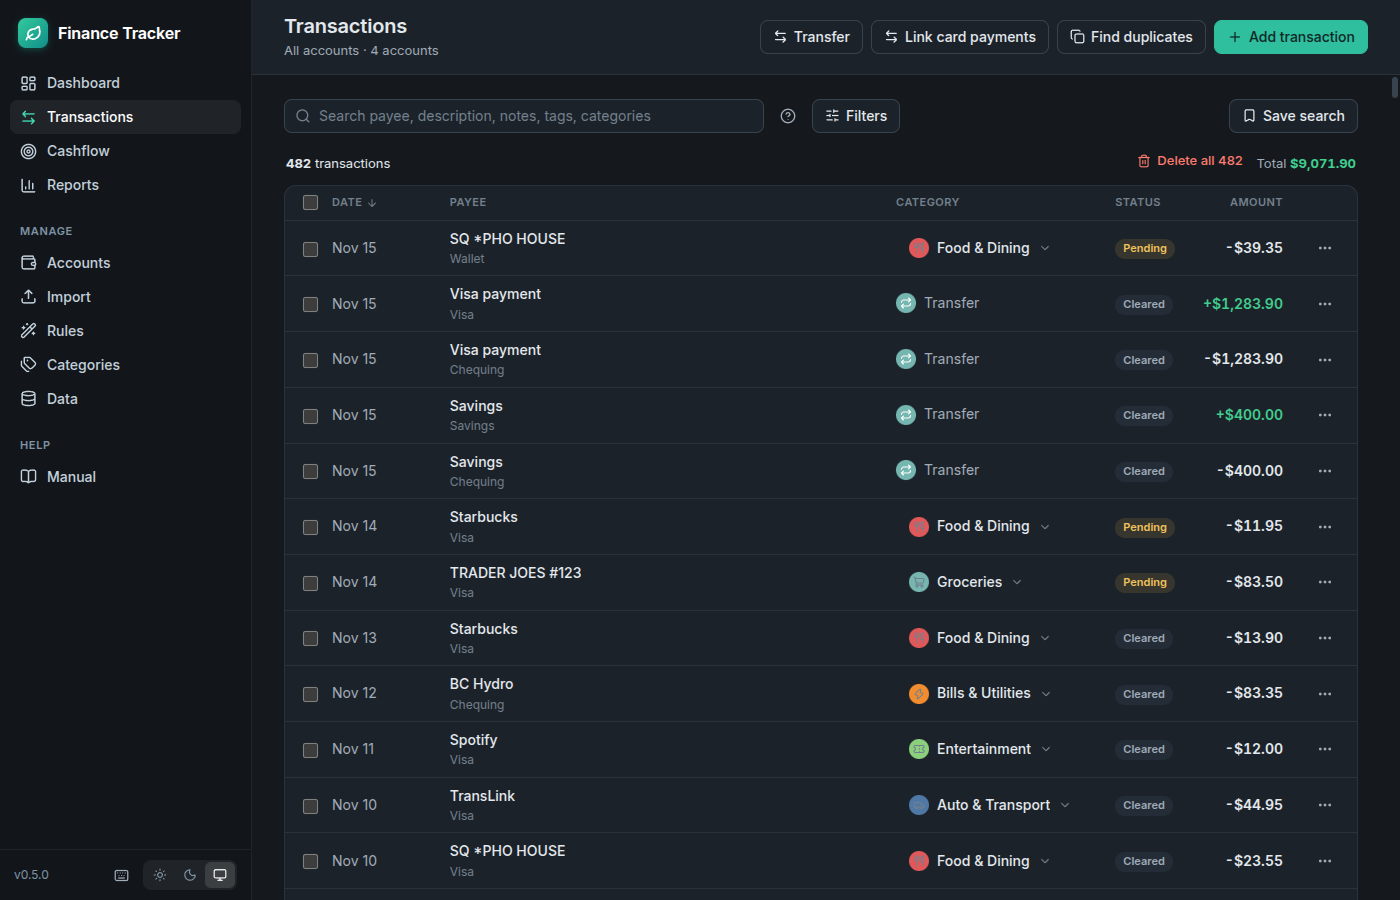
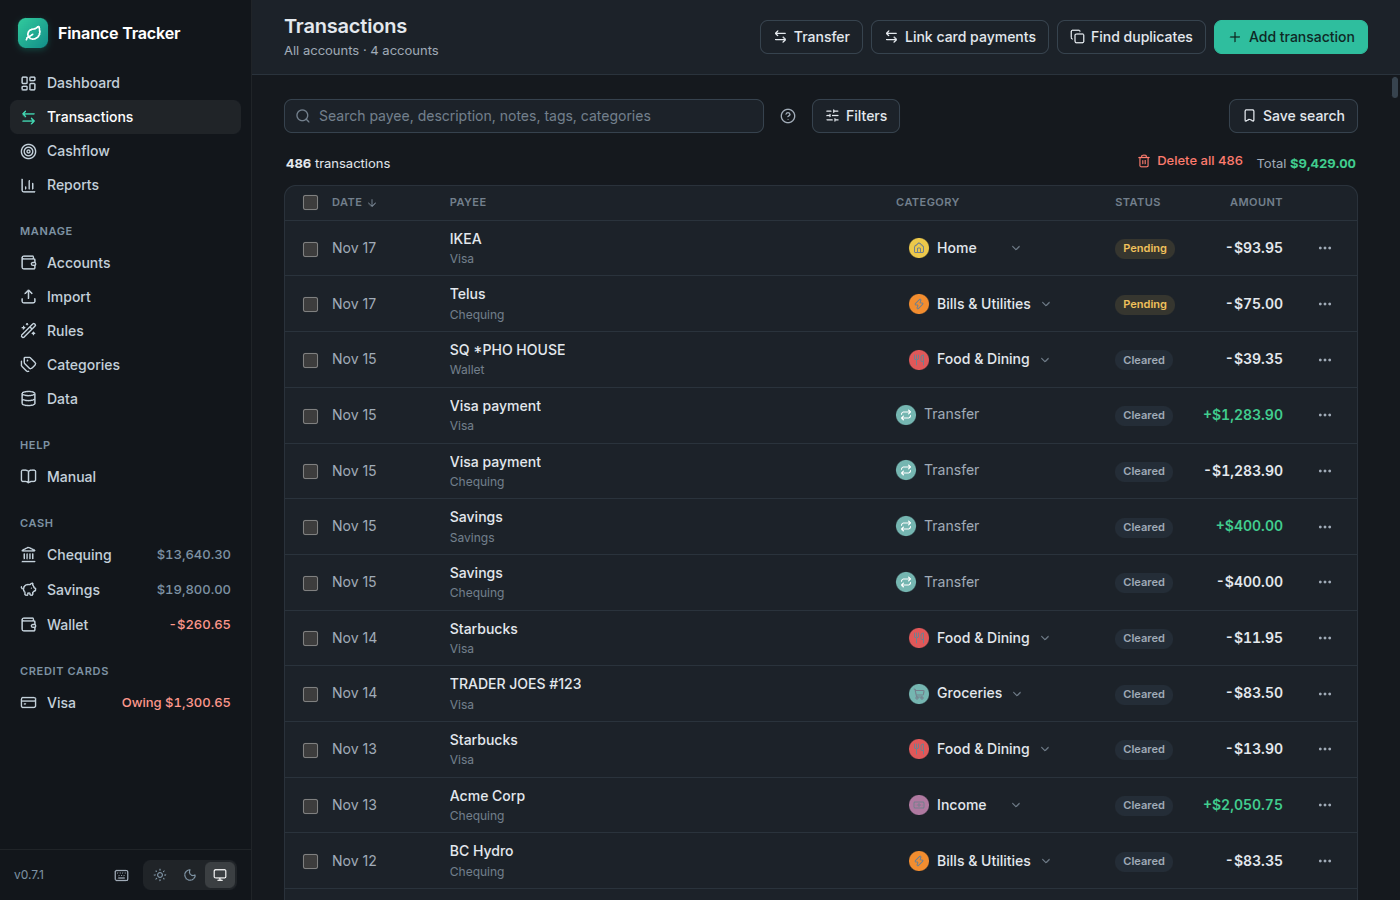
feat: restore account list to the sidebar, release 0.7.1 (#51)
Grouped active accounts with balances under the main tabs; clicking one
opens its transactions. Net worth and Add account stay on the Accounts
page. README screenshots regenerated.

Claude-Session: https://claude.ai/code/session_015k7HiCYjsLmvg5PVpiGV9m

diff --git a/src/renderer/src/App.tsx b/src/renderer/src/App.tsx
@@ -26,7 +26,13 @@ import type { Api } from '../../preload'
 import { AccountEditor } from './AccountEditor'
 import { AccountForm } from './AccountForm'
 import type { AccountWithBalance } from '../../core/ledger/accounts'
-import { accountTypeLabel, balanceText, isLiability } from './accountTypes'
+import {
+  ACCOUNT_GROUPS,
+  ACCOUNT_ICONS,
+  accountTypeLabel,
+  balanceText,
+  isLiability,
+} from './accountTypes'
 import { CategoriesEditor } from './CategoriesEditor'
 import { CategoryStyleProvider } from './CategoryBadge'
 import { CategoryAliasProvider } from './CategorySelect'
@@ -299,6 +305,39 @@ function Shell() {
                       </div>
                     </div>
                   ))}
+                </nav>
+                <nav aria-label="Accounts">
+                  {ACCOUNT_GROUPS.map((g) => {
+                    const list = ledger.accounts.filter((a) => g.types.includes(a.type))
+                    if (list.length === 0) return null
+                    return (
+                      <div key={g.label} className="nav-group">
+                        <div className="nav-heading">{g.label}</div>
+                        <ul>
+                          {list.map((a) => {
+                            const Icon = ACCOUNT_ICONS[a.type]
+                            return (
+                              <li key={a.id}>
+                                <button
+                                  type="button"
+                                  className="nav-item"
+                                  title={a.name}
+                                  aria-current={view === 'ledger' && accountId === a.id}
+                                  onClick={() => pickAccount(a.id, true)}
+                                >
+                                  <Icon size={17} aria-hidden="true" />
+                                  <span className="grow">{a.name}</span>
+                                  <span className={`amount${a.balance < 0 ? ' neg' : ''}`}>
+                                    {balanceText(a.type, a.balance)}
+                                  </span>
+                                </button>
+                              </li>
+                            )
+                          })}
+                        </ul>
+                      </div>
+                    )
+                  })}
                 </nav>
               </div>
               <footer className="sidebar-footer">

diff --git a/CLAUDE.md b/CLAUDE.md
@@ -16,7 +16,7 @@ See `docs/design/00_project_brief.md`.
 
 ## Project status
 
-Milestones 1 (skeleton) and 2 (ledger: schema, core queries, IPC, transaction list, transfers, splits) are built. Milestone 3 (import) is built: CSV, OFX/QFX and Mint CSV, mapping profiles, duplicate detection, undo, history, and bank presets for RBC, TD and Tangerine, verified against real export headers and date formats (see `docs/design/04_import.md`). Milestone 4 (rules) is built in core, IPC and a basic editor (see `docs/design/05_rules.md`). Milestone 5 (search) is built: filters, saved searches and bulk actions (see `docs/design/06_search.md`). Milestone 6 (reports and dashboard) is built: category, income vs expenses, trend, payee and biggest-transaction reports, a dashboard home screen and category drill-down (see `docs/design/07_reports.md`). Milestone 7 (data safety) is built: database export and restore, transactions CSV export and automatic backups (see `docs/design/08_data_safety.md`). OFX/QFX and Mint import were clicked through headless (`import-formats.mjs`). Milestone 8 (packaging) is built: unsigned installers via electron-builder and a tag-triggered release workflow (see `docs/design/09_packaging.md`, ADR 0004). v0.1.0 is released (Linux AppImage, Windows exe, macOS arm64 dmg on the GitHub release page). After the MVP review: a Categories tab (add, rename, delete with reassign), a customizable dashboard, and account edit, archive and delete from the sidebar. After the design review (`docs/design/11_review_feedback.md`): duplicate hardening, flat categories with merge, category colours and icons, and per-category search totals are built. Also built: a rule prompt when a category is changed in the list, the watched import folder, default linking of card payments at import, category aliases (migration 10) and the hide-from-budgets flag (migration 11). budgets v1 (monthly standing amount per category, see `docs/design/12_budgets.md`, migration 12) with a dashboard widget. Look and feel (`docs/design/13_look_and_feel.md`, ADR 0005) is built: design tokens, light and dark themes, sidebar shell, dialogs and a layout pass on every screen; no `window.alert`/`window.confirm` remain. An in-app Manual (`docs/design/14_manual.md`) is built; keep `manualContent.ts` in step with user-visible changes. Spreadsheet (.xlsx) import is built (ADR 0006). After the feedback batch (handoff 2026-11-14_feedback-batch): category kind dropped (ADR 0007), card payment linking, searchable category picker, notes, rule toast, import column guessing with preview, and Find duplicates. After the second feedback round (handoff 2026-11-14_session-accounts-and-duplicates): bulk duplicate cleanup with cross-account matching, an Accounts tab (design note 15), a navigation-only sidebar and an Account filter on Transactions. After the third feedback round (handoff 2026-11-14_session-feedback-round-3): dashboard drill-downs, import category guess and skip-on-import rules. After the follow-up (handoff 2026-11-14_session-review-queue-fuzzy-rules): import rule offer, fuzzy `similar` rule operator and a review queue for uncategorized rows. After persona testing (handoff 2026-11-14_session-usability-pass): decimal-comma fix, layout and narrow-window fixes, first-run guidance, explicit import account, predictable search, keyboard shortcuts, skip-aware import summary, similar-spelling history guess, and design notes 16 and 17. v0.5.0 is released (handoff 2026-11-14_session-release-0.5.0). After the fourth feedback round (handoff 2026-11-14_session-feedback-round-4): load all transactions, edit transaction, hidden-from-budgets leaves reports, net refunds and sorting on budgets, a spending donut, and Budgets renamed Cashflow. v0.6.0 is released. v0.7.0 adds set balance on a date and a Back button. Next: build those two notes' first slices, then budget rollover (needs a decision, see design note 12).
+Milestones 1 (skeleton) and 2 (ledger: schema, core queries, IPC, transaction list, transfers, splits) are built. Milestone 3 (import) is built: CSV, OFX/QFX and Mint CSV, mapping profiles, duplicate detection, undo, history, and bank presets for RBC, TD and Tangerine, verified against real export headers and date formats (see `docs/design/04_import.md`). Milestone 4 (rules) is built in core, IPC and a basic editor (see `docs/design/05_rules.md`). Milestone 5 (search) is built: filters, saved searches and bulk actions (see `docs/design/06_search.md`). Milestone 6 (reports and dashboard) is built: category, income vs expenses, trend, payee and biggest-transaction reports, a dashboard home screen and category drill-down (see `docs/design/07_reports.md`). Milestone 7 (data safety) is built: database export and restore, transactions CSV export and automatic backups (see `docs/design/08_data_safety.md`). OFX/QFX and Mint import were clicked through headless (`import-formats.mjs`). Milestone 8 (packaging) is built: unsigned installers via electron-builder and a tag-triggered release workflow (see `docs/design/09_packaging.md`, ADR 0004). v0.1.0 is released (Linux AppImage, Windows exe, macOS arm64 dmg on the GitHub release page). After the MVP review: a Categories tab (add, rename, delete with reassign), a customizable dashboard, and account edit, archive and delete from the sidebar. After the design review (`docs/design/11_review_feedback.md`): duplicate hardening, flat categories with merge, category colours and icons, and per-category search totals are built. Also built: a rule prompt when a category is changed in the list, the watched import folder, default linking of card payments at import, category aliases (migration 10) and the hide-from-budgets flag (migration 11). budgets v1 (monthly standing amount per category, see `docs/design/12_budgets.md`, migration 12) with a dashboard widget. Look and feel (`docs/design/13_look_and_feel.md`, ADR 0005) is built: design tokens, light and dark themes, sidebar shell, dialogs and a layout pass on every screen; no `window.alert`/`window.confirm` remain. An in-app Manual (`docs/design/14_manual.md`) is built; keep `manualContent.ts` in step with user-visible changes. Spreadsheet (.xlsx) import is built (ADR 0006). After the feedback batch (handoff 2026-11-14_feedback-batch): category kind dropped (ADR 0007), card payment linking, searchable category picker, notes, rule toast, import column guessing with preview, and Find duplicates. After the second feedback round (handoff 2026-11-14_session-accounts-and-duplicates): bulk duplicate cleanup with cross-account matching, an Accounts tab (design note 15), a navigation-only sidebar and an Account filter on Transactions. After the third feedback round (handoff 2026-11-14_session-feedback-round-3): dashboard drill-downs, import category guess and skip-on-import rules. After the follow-up (handoff 2026-11-14_session-review-queue-fuzzy-rules): import rule offer, fuzzy `similar` rule operator and a review queue for uncategorized rows. After persona testing (handoff 2026-11-14_session-usability-pass): decimal-comma fix, layout and narrow-window fixes, first-run guidance, explicit import account, predictable search, keyboard shortcuts, skip-aware import summary, similar-spelling history guess, and design notes 16 and 17. v0.5.0 is released (handoff 2026-11-14_session-release-0.5.0). After the fourth feedback round (handoff 2026-11-14_session-feedback-round-4): load all transactions, edit transaction, hidden-from-budgets leaves reports, net refunds and sorting on budgets, a spending donut, and Budgets renamed Cashflow. v0.6.0 is released. v0.7.0 adds set balance on a date and a Back button. v0.7.1 restores the account list to the sidebar. Next: build those two notes' first slices, then budget rollover (needs a decision, see design note 12).
 
 ## Scope
 

diff --git a/docs/design/15_accounts_page.md b/docs/design/15_accounts_page.md
@@ -1,6 +1,6 @@
 # Accounts page
 
-The sidebar lost its account list, balances and net worth (feedback 2026-11-14); the Accounts tab holds them.
+The sidebar lost its account list (feedback 2026-11-14); the Accounts tab holds balances and net worth. The plain account list (name and balance, grouped, active accounts only) returned to the sidebar on 2026-11-16 at the owner's request; net worth and the add button stay on the Accounts page.
 
 - Nav item "Accounts" under Manage. The sidebar has no separate "All accounts" entry (it duplicated this page).
 - Summary card: assets, owing on cards and loans, net worth (owing is already inside net worth).
@@ -10,5 +10,5 @@ The sidebar lost its account list, balances and net worth (feedback 2026-11-14);
 - Each row has an Edit account button (the same dialog as the header button on an account's page).
   Add account is a button in the page header. The sidebar no longer shows net worth or an add button
   (net worth is on this page).
-- The sidebar has no account list. Transactions has an Account filter (in Filters) to scope to one
+- The sidebar lists active accounts under the nav; clicking one opens its transactions. Transactions has an Account filter (in Filters) to scope to one
   account; opening an account from this page sets it. Archived accounts appear in the filter.

diff --git a/CHANGELOG.md b/CHANGELOG.md
@@ -5,6 +5,12 @@ All notable changes to this project are documented here. The format is based on
 
 ## [Unreleased]
 
+## [0.7.1] - 2026-11-16
+
+### Changed
+
+- The sidebar lists your accounts again (grouped, with balances) under the main tabs; click one to see its transactions. Net worth and Add account stay on the Accounts page.
+
 ## [0.7.0] - 2026-11-16
 
 ### Added
